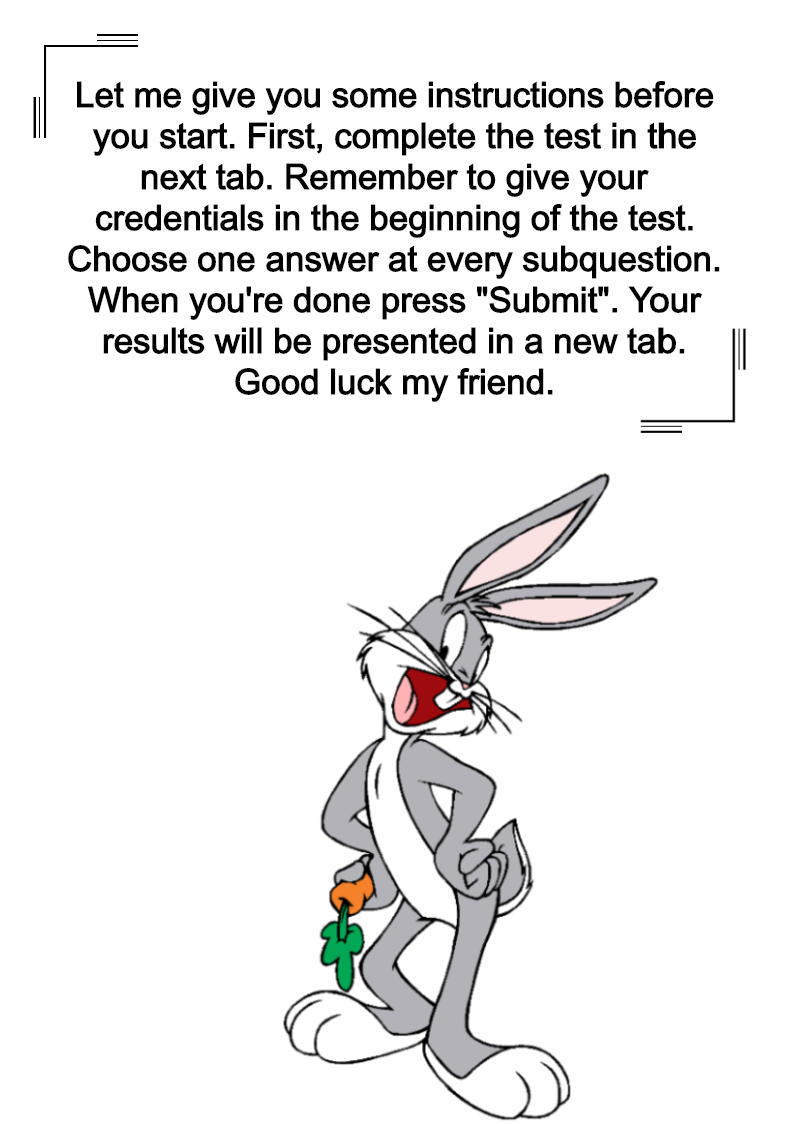
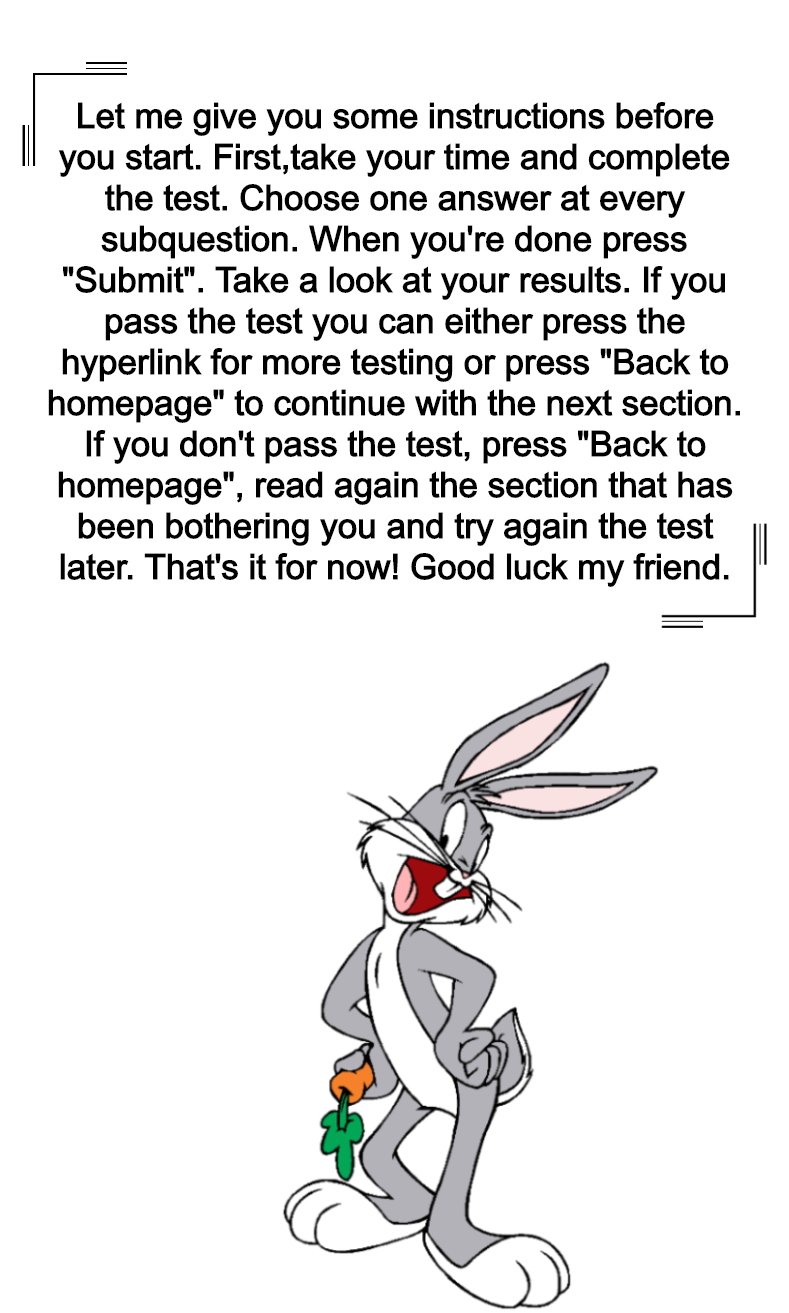
Testing added

Changed region(s): [[0.0304, 0.0311, 0.943, 1.0], [0.943, 0.4048, 0.9734, 0.4671]]

diff --git a/web/crap.html b/web/crap.html
@@ -1,0 +1,187 @@
+<!DOCTYPE html>
+<html lang="en">
+<head>
+    <meta charset="UTF-8">
+    <title>Testing Time</title>
+    <link href="./bootstrap/css/bootstrap.css" rel="stylesheet">
+    <link href="./bootstrap/css/bootstrap-grid.css" rel="stylesheet">
+    <link href="./bootstrap/css/bootstrap-reboot.css" rel="stylesheet">
+    <script src="//code.jquery.com/jquery-1.11.0.min.js"></script>
+    <link rel="stylesheet" href="https://maxcdn.bootstrapcdn.com/bootstrap/3.4.1/css/bootstrap.min.css">
+    <style>
+        .sidenav {
+            height: 100%;
+            width: auto;
+            position: fixed;
+            z-index: 1;
+            top: 0;
+            left: 0;
+            background-color: #042611;
+            overflow-x: hidden;
+            padding-top: 20px;
+        }
+        .sidenav a, #logout_form {
+            padding: 6px 20px 6px 20px;
+            text-decoration: none;
+            font-size: 21px;
+            color: #5f6e62;
+            display: block;
+        }
+        .sidenav a:hover, #logout_form:hover {
+            color: #edede4;
+        }
+
+    </style>
+</head>
+<body style="background: #FFEEEE;  /*for old browsers */
+    background: -webkit-linear-gradient(to right, #DDEFBB, #FFEEEE);  /* Chrome 10-25, Safari 5.1-6 */
+    background: linear-gradient(to right, #DDEFBB, #FFEEEE); /* W3C, IE 10+/ Edge, Firefox 16+, Chrome 26+, Opera 12+, Safari 7+ */">
+<div class="sidenav">
+    <div class="accordion" id="accordion1">
+        <div id="heading1">
+            <a class="card-title" href="#about" data-toggle="collapse" data-target="#collapse1" aria-expanded="false" aria-controls="collapse1">Profile Info</a>
+        </div>
+        <div id="collapse1" class="collapse container text-white" style="width: fit-content; background-color: #095426" aria-labelledby="headingOne" data-parent="#accordion1">
+            <p class="card-text "><span class="glyphicon glyphicon-user"></span> Kostas Dimitrakopoulos</p>
+            <p class="card-text">Current Section: <p>  Multiplication of 3</p></p>
+            <p class="card-text">Progress: 40%</p>
+        </div>
+    </div>
+    <form method="post" action="/S_Welcome">
+        <a href="contact.html">Contact</a>
+        <a href="about.html">About</a>
+        <a><input type="submit" value="Logout" name="logout" id="logout_form" style="background:none; border-width:0px; padding-left: 0px;"></a>
+    </form>
+</div>
+<div class="progress" style="margin-top: 2%; height: 32px;">
+    <div class="progress-bar progress-bar-success font-weight-bolder" role="progressbar" aria-valuenow="40"
+         aria-valuemin="0" aria-valuemax="100" style="width:40%; font-size: 16px">
+        Student's progress 40%
+    </div>
+</div>
+<div class="container">
+    <div class="row">
+        <div class="col-md-8">
+            <div class="container d-flex" style="margin-left: 20%">
+                <div class="shadow p-3 mb-5 bg-white rounded">
+                    <div class="card text-center" style="width: 45rem;">
+                        <div class="card-body">
+                            <h4 class="card-title">It's Testing Time</h4>
+                            <h6 class="card-subtitle mb-2 text-muted">Choose one answer at a time</h6>
+                            <div class = "col">
+                                <form>
+                                    <hr>
+                                    <ul class="list-group list-group-flush">
+                                        <div>
+                                            <h4>1.  8 x 3 = ?</h4>
+                                            <div id='b1'>
+                                                <label for='o1' class="h4">
+                                                    <input type='radio' name='option1' id='o1' style='transform: scale(1.3); margin-right: 10px; vertical-align: middle; margin-top: -2px;' required/>
+                                                    4</label>
+                                                <span id='r1'></span>
+                                            </div>
+                                            <div id='b2'>
+                                                <label for='o2' class="h4">
+                                                    <input type='radio' name='option1' id='o2' style='transform: scale(1.3); margin-right: 10px; vertical-align: middle; margin-top: -2px;' />
+                                                    24</label>
+                                                <span id='r2'></span>
+                                            </div>
+                                            <div id='b3'>
+                                                <label for='o3' class="h4">
+                                                    <input type='radio' name='option1' id='o3' style='transform: scale(1.3); margin-right: 10px; vertical-align: middle; margin-top: -2px;' />
+                                                    21</label>
+                                                <span id='r3'></span>
+                                            </div>
+                                            <small class="text-muted" style="margin-left: 70%">1 point</small>
+                                            <hr />
+                                            <h4>2.  6 x 3 = ?</h4>
+                                            <div id='b4'>
+                                                <label for='o4' class="h4">
+                                                    <input type='radio' name='option2' id='o4'  style='transform: scale(1.3); margin-right: 10px; vertical-align: middle; margin-top: -2px;' required/>
+                                                    4</label>
+                                                <span id='r4'></span>
+                                            </div>
+                                            <div id='b5'>
+                                                <label for='o5' class="h4">
+                                                    <input type='radio' name='option2' id='o5'  style='transform: scale(1.3); margin-right: 10px; vertical-align: middle; margin-top: -2px;' />
+                                                    24</label>
+                                                <span id='r5'></span>
+                                            </div>
+                                            <div id='b6'>
+                                                <label for='o6' class="h4">
+                                                    <input type='radio' name='option2' id='o6' style='transform: scale(1.3); margin-right: 10px; vertical-align: middle; margin-top: -2px;' />
+                                                    18</label>
+                                                <span id='r6'></span>
+                                            </div>
+                                            <small class="text-muted" style="margin-left: 70%">1 point</small>
+                                            <hr />
+                                        </div>
+                                    </ul>
+                                    <div class="form-inline">
+                                        <button type='button' style="margin-left: 150px"  class="btn btn-success" onclick='displayAnswer()'>Submit</button>
+                                        <label  style="margin-left: 50px" id="total" name="points"></label>
+                                    </div>
+                                </form>
+                                <div id="success" style="display: none;">
+                                    <hr><label>Succeed</label>
+                                    <p>Well done buddy, you're doing great.</p>
+                                    <p><a onclick="window.open('link');">Want more tests? Let's give it a try!!!</a></p>
+                                    <form method="post" action="/S_Welcome">
+                                        <input type="submit" class="btn btn-success" name="back_to_homepage" value="Back to homepage">
+                                    </form><br>
+                                </div>
+                                <div id="fail" style="display: none;">
+                                    <hr><label>Failed</label>
+                                    <p>Sorry buddy, read the theory and try again later.</p>
+                                    <form method="post" action="/S_Welcome">
+                                        <input type="submit" class="btn btn-success" name="back_to_homepage" value="Back to homepage">
+                                    </form><br>
+                                </div>
+                                <input type="hidden" id="score" name="get_score" value="">
+                            </div>
+                        </div>
+                    </div>
+                </div>
+            </div>
+        </div>
+        <div class="col-md-4">
+            <img src="img/test.png" alt="Instructions" width="400" height="600">
+        </div>
+    </div>
+</div>
+<script>
+    function displayAnswer() {
+        var i;
+        var score = 0;
+        for (i = 1; i <= 6; i++) {
+            if(i== 2 || i== 6 ){
+                if (document.getElementById('o'+i).checked) {
+                    document.getElementById('b'+i).style.border = '3px solid limegreen'
+                    document.getElementById('r'+i).style.color = 'limegreen'
+                    document.getElementById('r'+i).innerHTML = 'Correct!'
+                    score++
+                }
+            }else{
+                if (document.getElementById('o'+i).checked) {
+                    document.getElementById('b'+i).style.border = '3px solid red'
+                    document.getElementById('r'+i).style.color = 'red'
+                    document.getElementById('r'+i).innerHTML = 'Incorrect!'
+                }
+            }
+        }
+        $(':radio:not(:checked)').attr('disabled', true);
+        document.getElementById("total").innerHTML = "Total points " + score +"/2"
+        document.getElementById("score").value = ""+score+"";
+        if(score==2){
+            document.getElementById('success').style.display = "initial"
+            document.getElementById('fail').style.display = "none"
+        }else{
+            document.getElementById('success').style.display = "none"
+            document.getElementById('fail').style.display = "initial"
+        }
+    }
+</script>
+<script src="./bootstrap/js/bootstrap.bundle.js"></script>
+<script src="./bootstrap/js/bootstrap.js"></script>
+</body>
+</html>

diff --git a/src/Servlets/TestServlet.java b/src/Servlets/TestServlet.java
@@ -1,21 +1,16 @@
 package Servlets;
 
+import Classes.GoogleFormsMapper;
 import Classes.TestMapper;
+
+import javax.servlet.RequestDispatcher;
 import javax.servlet.ServletException;
 import javax.servlet.annotation.WebServlet;
 import javax.servlet.http.HttpServlet;
 import javax.servlet.http.HttpServletRequest;
 import javax.servlet.http.HttpServletResponse;
-import java.awt.*;
 import java.io.*;
-import java.net.URI;
-import java.net.URL;
-import java.util.ArrayList;
-import java.util.Arrays;
-import java.util.Date;
 import java.sql.ResultSet;
-import java.sql.Timestamp;
-import java.text.SimpleDateFormat;
 
 @WebServlet(name = "TestServlet",value ="/Test")
 public class TestServlet extends HttpServlet {
@@ -28,80 +23,89 @@ public class TestServlet extends HttpServlet {
 
         String userid = (String)request.getSession().getAttribute("userid");        //get user id from session
         PrintWriter out = response.getWriter();
+        out.print("<!DOCTYPE html><html lang=\"en\"><head><meta charset=\"UTF-8\"><title>Student Homepage</title>\n" +
+                "<link href=\"./bootstrap/css/bootstrap.css\" rel=\"stylesheet\">\n" +
+                "<link href=\"./bootstrap/css/bootstrap-grid.css\" rel=\"stylesheet\">\n" +
+                "<link href=\"./bootstrap/css/bootstrap-reboot.css\" rel=\"stylesheet\">\n" +
+                "<script src=\"//code.jquery.com/jquery-1.11.0.min.js\"></script>\n" +
+                "<link rel=\"stylesheet\" href=\"https://maxcdn.bootstrapcdn.com/bootstrap/3.4.1/css/bootstrap.min.css\">\n" +
+                "<style>.sidenav {height: 100%; width: auto; position: fixed; z-index: 1; top: 0; left: 0; background-color: #042611;\n" +
+                "overflow-x: hidden; padding-top: 20px; } .sidenav a, #logout_form { padding: 6px 20px 6px 20px; text-decoration: none;\n" +
+                "font-size: 21px; color: #5f6e62; display: block; } .sidenav a:hover, #logout_form:hover { color: #edede4; } </style> </head>\n" +
+                "<body style=\"background: #FFEEEE;  /*for old browsers */ background: -webkit-linear-gradient(to right, #DDEFBB, #FFEEEE);  /* Chrome 10-25, Safari 5.1-6 */\n" +
+                "background: linear-gradient(to right, #DDEFBB, #FFEEEE); /* W3C, IE 10+/ Edge, Firefox 16+, Chrome 26+, Opera 12+, Safari 7+ */\">\n" +
+                "<div class=\"sidenav\"><div class=\"accordion\" id=\"accordion_menu\"><div id=\"heading_menu\">\n" +
+                "<a class=\"card-title\" href=\"#about\" data-toggle=\"collapse\" data-target=\"#collapse_menu\" aria-expanded=\"false\" aria-controls=\"collapse_menu\">Profile Info</a>\n" +
+                "</div><div id=\"collapse_menu\" class=\"collapse container text-white\" style=\"width: fit-content; background-color: #095426\" aria-labelledby=\"heading_menu\" data-parent=\"#accordion_menu\">\n" +
+                "<p class=\"card-text text-uppercase\"><span class=\"glyphicon glyphicon-user\"></span> ");
         try{
             if(request.getParameter("logout")!=null) {
                 request.getSession().removeAttribute("userid");
                 request.getSession().invalidate();
-                response.setHeader("Cache-Control", "no-cache, no-store, must-revalidate"); //Student's progress "+progress+"%</div></div>" +   role=\"progressbar\" aria-valuenow=\""+progress+"\""+
+                response.setHeader("Cache-Control", "no-cache, no-store, must-revalidate");
                 response.sendRedirect("login.html");
+            }
+            String score = "";
+            if(request.getParameter("back_to_homepage")!=null){
+                score = request.getParameter("get_score");
+                System.out.println(score);
+                RequestDispatcher dispatcher = getServletContext().getRequestDispatcher("/S_Welcome");
+                dispatcher.forward(request, response);
             }
             TestMapper test = new TestMapper();
             ResultSet res = test.get_test(S_WelcomeServlet.theory_id);
-            String href = ""; String results = "";
-            while (res.next()){
-                href = res.getString("test_data");
-                results = res.getString("responses");
-            }
-            Date date = new Date();
-            SimpleDateFormat dateFormat = new SimpleDateFormat("MM-dd-yy'T'HH:ss:mm");
-            Date parsedDate = dateFormat.parse(dateFormat.format(date));
-            Timestamp timestamp = new java.sql.Timestamp(parsedDate.getTime());
-
-            int duration = 1800000; //in milliseconds, 30 minutes
-            Timestamp previous_timestamp = timestamp;
-            timestamp.setTime(timestamp.getTime() + duration);
-
-            ArrayList records = new ArrayList(); ArrayList<String> temp = new ArrayList<String>();
-            URL csv = new URL(results);
-            BufferedReader br = new BufferedReader(new InputStreamReader(csv.openStream()));
-            String line;
-            br.mark(0);
-            while (true) {
-                line = br.readLine();
-                if(line == null) { br.reset();}
-                String[] values = line.split(",");
-                int size = values.length; int i = 0;
-                while(i<size){
-                    temp.add(values[i]);
-                    i++;
-                }
-                if(previous_timestamp.before(Timestamp.valueOf(temp.get(0))) && timestamp.after(Timestamp.valueOf(temp.get(0)))) {
-                    records.add(temp.get(0));
-                    System.out.println(records.get(records.size()-1));
-                    System.out.println(records.get(0)); //timestamp first element
-                    break;
-                }
-                temp.clear();
-            }
-            br.close();
-            System.out.println(records.get(records.size()-1)); //last element
-
-            if (Desktop.isDesktopSupported() && Desktop.getDesktop().isSupported(Desktop.Action.BROWSE)) {
-                Desktop.getDesktop().browse(new URI(href));
-            }
-            out.println("<!DOCTYPE html><html lang=\"en\"><head><meta charset=\"UTF-8\"><title>Instructions for tests</title>\n" +
-                    "<link href=\"./bootstrap/css/bootstrap.css\" rel=\"stylesheet\">" +
-                    "<link href=\"./bootstrap/css/bootstrap-grid.css\" rel=\"stylesheet\">" +
-                    "\"<link href=\"./bootstrap/css/bootstrap-reboot.css\" rel=\"stylesheet\">" +
-                    "<script src=\"//code.jquery.com/jquery-1.11.0.min.js\"></script>" +
-                    "<link rel=\"stylesheet\" href=\"https://maxcdn.bootstrapcdn.com/bootstrap/3.4.1/css/bootstrap.min.css\">" +
-                    "<style>.sidenav {height: 100%; width: auto; position: fixed; z-index: 1; top: 0; left: 0; background-color: #042611;" +
-                    "overflow-x: hidden; padding-top: 20px; } .sidenav a, #logout_form { padding: 6px 20px 6px 20px; text-decoration: none;" +
-                    "font-size: 21px; color: #5f6e62; display: block; } .sidenav a:hover, #logout_form:hover { color: #edede4; } </style> </head>" +
-                    "<body style=\"background: #FFEEEE;  /*for old browsers */ background: -webkit-linear-gradient(to right, #DDEFBB, #FFEEEE);  /* Chrome 10-25, Safari 5.1-6 */" +
-                    "background: linear-gradient(to right, #DDEFBB, #FFEEEE); /* W3C, IE 10+/ Edge, Firefox 16+, Chrome 26+, Opera 12+, Safari 7+ */\">" +
-                    "<div class=\"sidenav\"><div class=\"accordion\" id=\"accordion_menu\"><div id=\"heading_menu\">" +
-                    "<a class=\"card-title\" href=\"#about\" data-toggle=\"collapse\" data-target=\"#collapse_menu\" aria-expanded=\"false\" aria-controls=\"collapse_menu\">Profile Info</a>" +
-                    "</div><div id=\"collapse_menu\" class=\"collapse container text-white\" style=\"width: fit-content; background-color: #095426\" aria-labelledby=\"heading_menu\" data-parent=\"#accordion_menu\">" +
-                    "<p class=\"card-text text-uppercase\"><span class=\"glyphicon glyphicon-user\"></span> " +
-                    S_WelcomeServlet.first_name + " " + S_WelcomeServlet.last_name + "</p><p class=\"card-text\">Current Section: <p>  Multiplication of " + S_WelcomeServlet.theory_id +
-                    "</p></p><p class=\"card-text\">Progress: " + S_WelcomeServlet.progress + "%</p></div></div><form method=\"post\" action=\"/Test\"><a href=\"contact.html\">Contact</a>" +
+            out.println( S_WelcomeServlet.first_name + " " + S_WelcomeServlet.last_name + "</p><p class=\"card-text\">Current Section: <p>  Multiplication of " + S_WelcomeServlet.theory_id +
+                    "</p></p><p class=\"card-text\">Progress: " + S_WelcomeServlet.progress + "%</p></div></div><form method=\"post\" action=\"/S_Welcome\"><a href=\"contact.html\">Contact</a>" +
                     "<a href=\"about.html\">About</a><a><input type=\"submit\" value=\"Logout\" name=\"logout\" id=\"logout_form\" style=\"background:none; border-width:0px; padding-left: 0px;\"></a></form></div>" +
-                    "<div class=\"progress\" style=\"margin-top: 2%; height: 32px;\"><div class=\"progress-bar progress-bar-success font-weight-bolder\" role=\"progressbar\" aria-valuenow=\""+S_WelcomeServlet.progress+"\"" +
+                    "<div class=\"progress\" style=\"margin-top: 2%; height: 32px;\"><div class=\"progress-bar progress-bar-success font-weight-bolder\" role=\"progressbar\" aria-valuenow=\""+S_WelcomeServlet.progress+"\""+
                     "aria-valuemin=\"0\" aria-valuemax=\"100\" style=\"width:"+S_WelcomeServlet.progress+"%; font-size: 16px\">Student's progress "+S_WelcomeServlet.progress+"%</div></div>" +
-                    "<div class=\"container\"><div class=\"row\"><div style=\"margin-left: 35%;\"><img src=\"img/test.png\" alt=\"Instructions\" width=\"400\" height=\"600\">\n" +
-                    "</div></div></div><script src=\"./bootstrap/js/bootstrap.bundle.js\"></script><script src=\"./bootstrap/js/bootstrap.js\"></script>\n" +
-                    "</body></html>");
+                    "<div class=\"container\"><div class=\"row\"><div class=\"col-md-8\"><div class=\"container d-flex\" style=\"margin-left: 20%\">\n" +
+                    "<div class=\"shadow p-3 mb-5 bg-white rounded\"><div class=\"card text-center \" style=\"width: 45rem;\"><div class=\"card-body\">" +
+                    "<h4 class=\"card-title\">It's Testing Time</h4><h6 class=\"card-subtitle mb-2 text-muted\">Choose one answer at a time</h6><div class = \"col\">\n" +
+                    "<form><hr><ul class=\"list-group list-group-flush\"><div>");
+            String a1 = ""; String a2 = ""; String a3 = ""; String a4 = "";
+            while(res.next()){
+                PrintOption(res.getString("q1"), "1", "2", "3",res.getString("o1"),res.getString("o2"),res.getString("o3"), out);
+                a1 = res.getString("a1");
+                PrintOption(res.getString("q2"), "4", "5", "6",res.getString("o4"),res.getString("o5"),res.getString("o6"), out);
+                a2 = res.getString("a2");
+                PrintOption(res.getString("q3"), "7", "8", "9",res.getString("o7"),res.getString("o8"),res.getString("o9"), out);
+                a3 = res.getString("a3");
+                PrintOption(res.getString("q4"), "10", "11", "12",res.getString("o10"),res.getString("o11"),res.getString("o12"), out);
+                a4 = res.getString("a4");
+            }
+            GoogleFormsMapper gf = new GoogleFormsMapper();
+            String google_form = gf.get_google_form_test(S_WelcomeServlet.theory_id);
+            out.println("</div></ul><div class=\"form-inline\"><button type='button' style=\"margin-left: 150px\"  class=\"btn btn-success\" onclick='displayAnswer()'>Submit</button>\n" +
+                    "<label  style=\"margin-left: 50px\" id=\"total\" name=\"points\"></label></div></form><div id=\"success\" style=\"display: none;\">\n" +
+                    "<hr><label>Succeed</label><p>Well done buddy, you're doing great.</p><p><a href=\"#\" onclick=\"window.open('"+google_form+"');\">Want more tests? Let's give it a try!!!</a></p>\n" +
+                    "<form method=\"post\" action=\"/Test\"><input type=\"submit\" class=\"btn btn-success\" name=\"back_to_homepage\" value=\"Back to homepage\">\n" +
+                    "</form><br></div><div id=\"fail\" style=\"display: none;\"><hr><label>Failed</label><p>Sorry buddy, read the theory and try again later.</p>\n" +
+                    "<form method=\"post\" action=\"/Test\"><input type=\"submit\" class=\"btn btn-success\" name=\"back_to_homepage\" value=\"Back to homepage\">\n" +
+                    "</form><br></div><input type=\"hidden\" id=\"score\" name=\"get_score\" value=\"score\"></div></div></div></div></div></div><div class=\"col-md-4\"><img src=\"img/test.png\" alt=\"Instructions\" width=\"400\" height=\"600\">\n" +
+                    "</div></div></div><script>function displayAnswer() {var i; var score = 0; for (i = 1; i <= 12; i++) { if(i== "+a1+" || i== "+a2+" || i== "+a3+" || i== "+a4+"){\n" +
+                    "if (document.getElementById('o'+i).checked) { document.getElementById('b'+i).style.border = '3px solid limegreen';\n" +
+                    "document.getElementById('r'+i).style.color = 'limegreen'; document.getElementById('r'+i).innerHTML = ' Correct!'; score++;}\n" +
+                    "}else{ if (document.getElementById('o'+i).checked) { document.getElementById('b'+i).style.border = '3px solid red'\n" +
+                    "document.getElementById('r'+i).style.color = 'red'; document.getElementById('r'+i).innerHTML = ' Incorrect!';}}}\n" +
+                    "$(':radio:not(:checked)').attr('disabled', true); document.getElementById(\"total\").innerHTML = \"Total points \" + score +\"/4\";\n" +
+                    "document.getElementById(\"score\").value = \"\"+score+\"\"; if(score>=3){ document.getElementById('success').style.display = \"initial\"; document.getElementById('fail').style.display = \"none\";\n" +
+                    "}else{ document.getElementById('success').style.display = \"none\"; document.getElementById('fail').style.display = \"initial\";}\n" +
+                    "}</script><script src=\"./bootstrap/js/bootstrap.bundle.js\"></script><script src=\"./bootstrap/js/bootstrap.js\"></script></body></html>");
+
         }catch (Exception e){System.out.println(e);}
+    }
+    protected void PrintOption(String Q, String i1, String i2, String i3,String o1,String o2,String o3, PrintWriter out){
+        out.println("<h4>"+Q+"</h4><div id='b"+i1+"'><label for='o"+i1+"' class=\"h4\">\n" +
+                "<input type='radio' name='option"+i1+"' id='o"+i1+"' style='transform: scale(1.3); margin-right: 10px; vertical-align: middle; margin-top: -2px;' required/>\n" +
+                ""+o1+"</label><span id='r"+i1+"'></span></div>\n" +
+                "<div id='b"+i2+"'><label for='o"+i2+"' class=\"h4\">\n" +
+                "<input type='radio' name='option"+i1+"' id='o"+i2+"' style='transform: scale(1.3); margin-right: 10px; vertical-align: middle; margin-top: -2px;' />\n" +
+                ""+o2+"</label><span id='r"+i2+"'></span></div>\n" +
+                "<div id='b"+i3+"'><label for='o"+i3+"' class=\"h4\">\n" +
+                "<input type='radio' name='option"+i1+"' id='o"+i3+"' style='transform: scale(1.3); margin-right: 10px; vertical-align: middle; margin-top: -2px;' />\n" +
+                ""+o3+"</label><span id='r"+i3+"'></span></div>\n" +
+                "<small class=\"text-muted\" style=\"margin-left: 70%\">1 point</small><hr />");
+
     }
 }

diff --git a/src/Classes/GoogleFormsMapper.java b/src/Classes/GoogleFormsMapper.java
@@ -1,0 +1,22 @@
+package Classes;
+
+import java.sql.PreparedStatement;
+import java.sql.ResultSet;
+import java.sql.SQLException;
+
+public class GoogleFormsMapper {
+
+    public String get_google_form_test(String theory_id) throws SQLException {
+        try {
+            Dbconnector connector = new Dbconnector();
+            PreparedStatement st = connector.connect().prepareStatement("SELECT google_form FROM google_forms_tests WHERE google_forms_tests.number_id = ? ;");
+            st.setString(1, theory_id);
+            ResultSet rs = st.executeQuery();
+            rs.next();
+            return  rs.getString(1);
+        } catch (Exception e) {
+            throw new SQLException("Could not get google form.");
+
+        }
+    }
+}

diff --git a/src/Classes/TestMapper.java b/src/Classes/TestMapper.java
@@ -10,7 +10,7 @@ public class TestMapper {
     public ResultSet get_test(String theory_id) throws  SQLException{
         try{
             Dbconnector connector = new Dbconnector();
-            PreparedStatement st = connector.connect().prepareStatement("SELECT test_data, responses FROM tests where tests.test_id = ?;");
+            PreparedStatement st = connector.connect().prepareStatement("SELECT * FROM tests where tests.test_id = ?;");
             st.setString(1, theory_id);
             ResultSet rs = st.executeQuery();
             return  rs;
